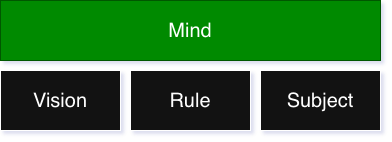
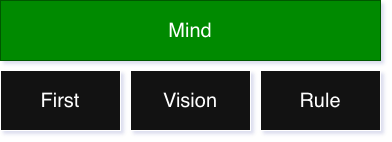
update mind

Changed region(s): [[0.7347, 0.6479, 0.9184, 0.7887], [0.0612, 0.6479, 0.2449, 0.7606], [0.398, 0.6479, 0.551, 0.7606]]

diff --git a/mind.md b/mind.md
@@ -8,10 +8,10 @@
 ## Diagram
 ![](https://github.com/kashanimorteza/economy_document/blob/main/design/mind.png)
 
-<!--------------------------------------------------------------------------------- Vision -->
+<!--------------------------------------------------------------------------------- First -->
 <br><br>
 
-## Vision
+## First
 اول باید برنامه نویس ذهن باشی   
 مغز سرد / بازیابی مجدد   
 عطش / انتخاب / ناخودآگاه / خودآگاه  
@@ -19,7 +19,11 @@
 شرطی کردن / تربیت کردن  
 همه چیز فرکتال است   
 ممکن است جواب یک مشکل در یک فرگ, نهفته در فرگ پایینی یا فرگ بالایی باشد   
-  
+
+<!--------------------------------------------------------------------------------- Vision -->
+<br><br>
+
+## Vision
 فارکس یک فرگ در درون توست   
 فارکس فرکتال است  
 فارکس یک جنگ است  
@@ -42,12 +46,6 @@
 بدبین باش   
   
 ارتباط خود را با فارکس از طریق برداشت هفتگی کف نیاز خود برقرار کن   
-
-<!--------------------------------------------------------------------------------- Subject -->
-<br><br>
-
-## Subject
-
 
 <!--------------------------------------------------------------------------------- Other -->
 <br><br>